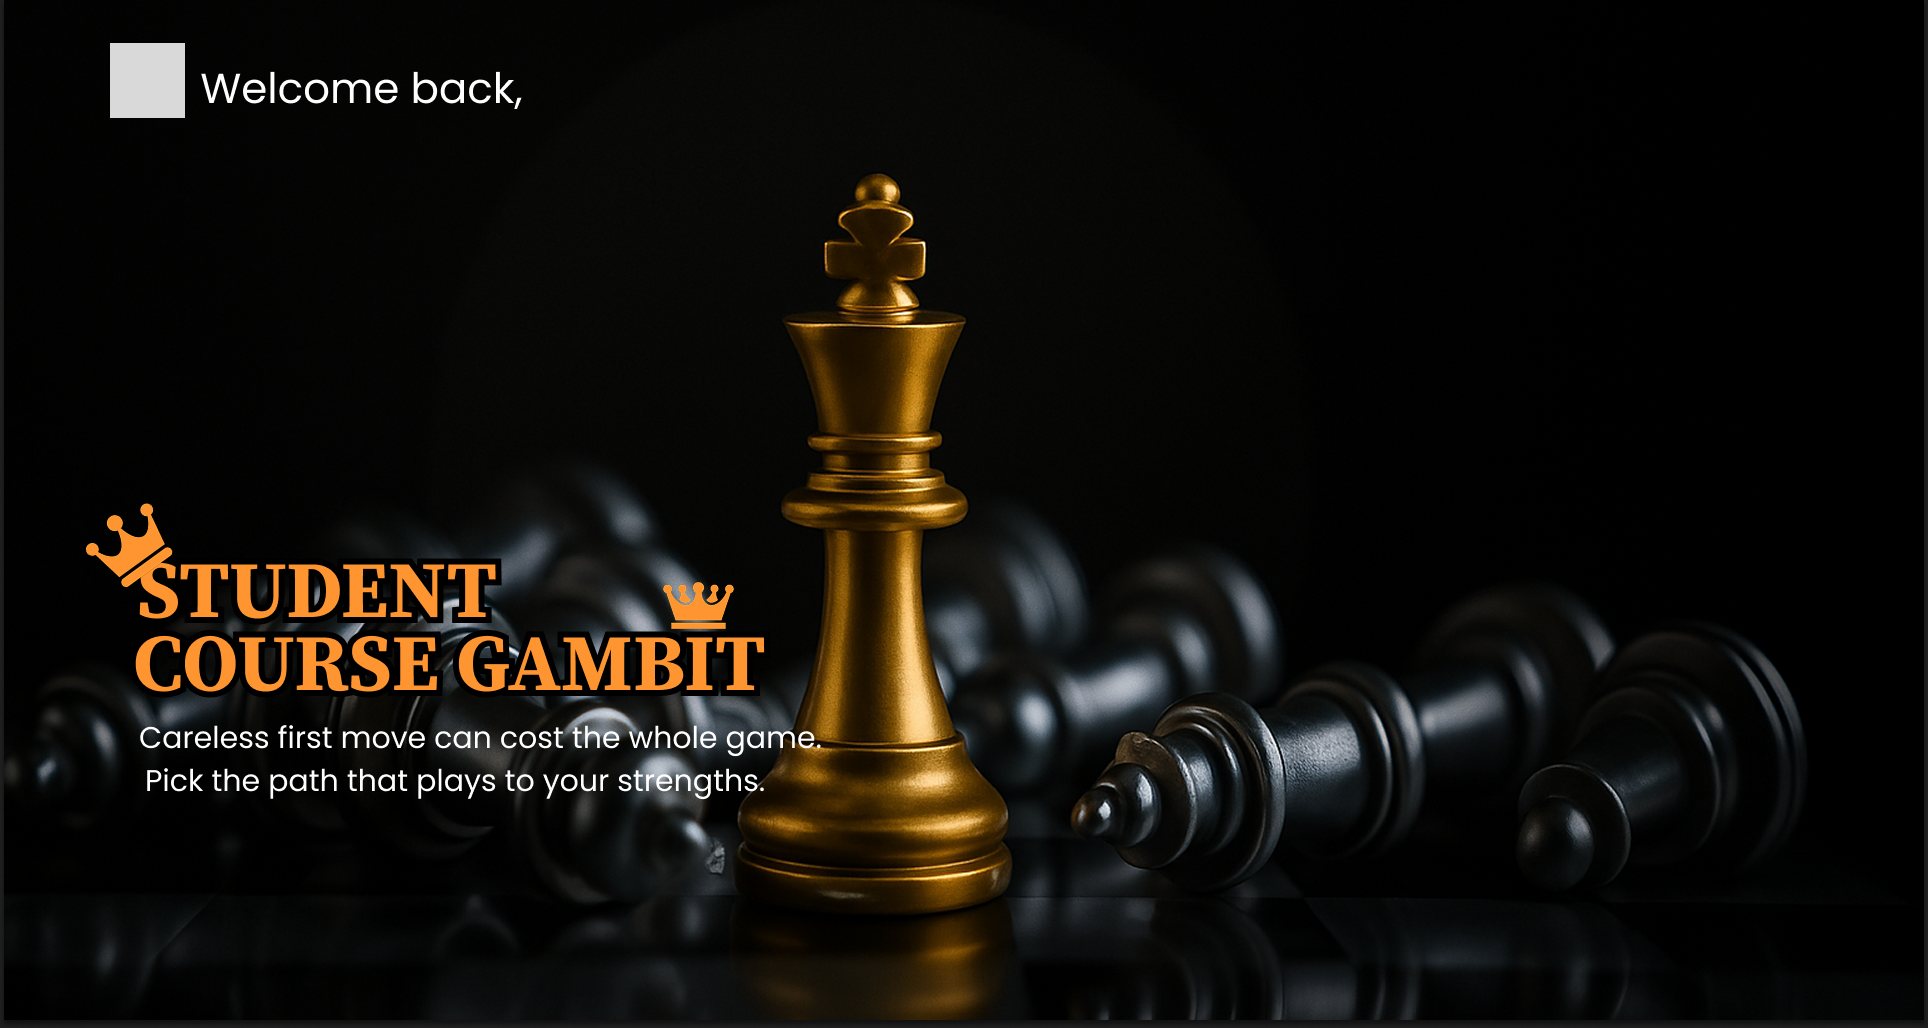
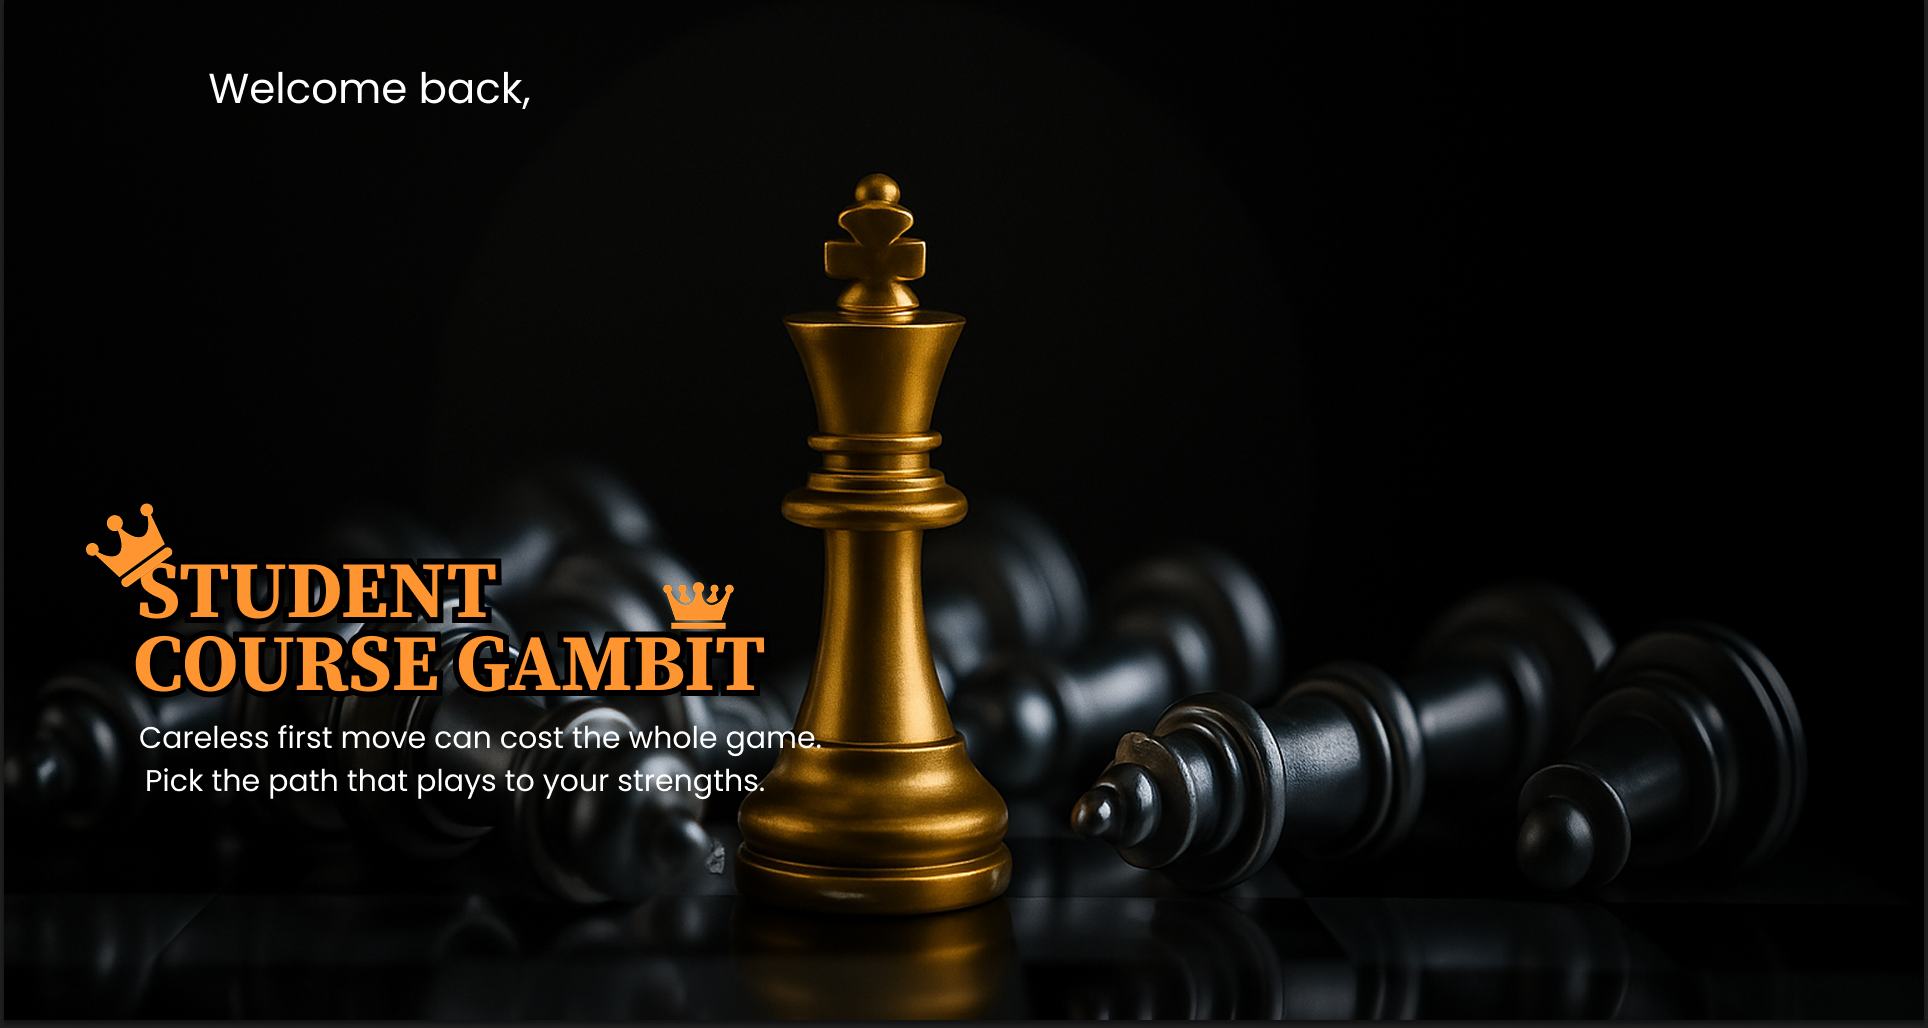
(04/16/2025)

Changed region(s): [[0.0311, 0.0311, 0.2801, 0.1245]]

diff --git a/Student Assistant/frmMain.py b/Student Assistant/frmMain.py
@@ -8,19 +8,26 @@ from PyQt5.QtCore import Qt, QUrl, QSize, pyqtSignal, pyqtSlot
 class frmUpload(QWidget):
     picture_uploaded = pyqtSignal(QPixmap)  # Signal to send image back
 
-    def __init__(self):
+    def __init__(self, existing_pixmap=None):
         super().__init__()
         self.setWindowTitle("Upload Picture")
         self.resize(500, 527)
         self.setWindowFlags(Qt.WindowType.FramelessWindowHint)
-        self.current_pixmap = None
+
+        if existing_pixmap:
+            self.current_pixmap = existing_pixmap
+        else:
+            self.current_pixmap = QPixmap("user.png")  # ← Default image
 
         # Picture display label
         self.picLabel = QLabel(self)
         self.picLabel.setFixedSize(200, 200)
         self.picLabel.move(155, 78)
-        self.picLabel.setStyleSheet("background-color: #f0f0f0; border: 2px dashed #aaa;")
+        self.picLabel.setStyleSheet("background-color: transparent; border: 2px dashed #aaa;")
         self.picLabel.setScaledContents(True)
+
+        if self.current_pixmap:
+            self.picLabel.setPixmap(self.current_pixmap)
 
         # Upload button
         self.btnUpload = QPushButton("Upload Picture", self)
@@ -62,16 +69,27 @@ class frmUpload(QWidget):
             self.picLabel.setPixmap(self.current_pixmap)
 
     def remove_picture(self):
-        self.picLabel.clear()
-        self.picLabel.setStyleSheet("background-color: #f0f0f0; border: 2px dashed #aaa;")
-        self.current_pixmap = None
+        self.current_pixmap = QPixmap("user.png")  # Reset to default image
+        self.picLabel.setPixmap(self.current_pixmap)
+        self.picLabel.setStyleSheet("background-color: transparent; border: 2px dashed #aaa;")
 
     def save_picture(self):
         if self.current_pixmap:
-            self.picture_uploaded.emit(self.current_pixmap)  # Emit signal with the image
-            self.close()
+            reply = QMessageBox.question(
+            self,
+            "Confirm Save",
+            "Do you want to save this picture?",
+            QMessageBox.Yes | QMessageBox.No,
+            QMessageBox.No
+        )
+            if reply == QMessageBox.Yes:
+                self.picture_uploaded.emit(self.current_pixmap)
+                QMessageBox.information(self, "Success", "Picture uploaded successfully.")
+                self.close()
+            else:
+                QMessageBox.information(self, "Picture was not saved.")
         else:
-            print("No picture to save.")
+            QMessageBox.warning(self, "No Picture", "No picture to save.")
 
     def paintEvent(self, event):
         painter = QPainter(self)
@@ -90,11 +108,13 @@ class frmUpload(QWidget):
 
 # Original frmMain
 class frmMain(QWidget):
-    def __init__(self): # , username
+    def __init__(self, username): # 
         super().__init__()
         self.setWindowTitle("Main Dashboard")
         self.resize(1920, 1020)
         self.setWindowFlags(Qt.FramelessWindowHint)
+
+        self.last_uploaded_pixmap = None
 
         # Video Widget
         self.videoWidget = QVideoWidget(self)
@@ -111,10 +131,10 @@ class frmMain(QWidget):
         self.player.mediaStatusChanged.connect(self.handle_media_status)
 
         # Label to display username
-        #self.lblUsername = QLabel(f"{username}", self)
-        #self.lblUsername.setFixedSize(400, 80)
-        #self.lblUsername.move(538, 43)
-        #self.lblUsername.setObjectName("lblUsername")
+        self.lblUsername = QLabel(f"{username}", self)
+        self.lblUsername.setFixedSize(400, 80)
+        self.lblUsername.move(544, 43)
+        self.lblUsername.setObjectName("lblUsername")
 
         self.lblSAS = QLabel("Student Assistant System", self)
         self.lblSAS.setFixedSize(800, 80)
@@ -124,9 +144,19 @@ class frmMain(QWidget):
         # Button to open upload form
         self.btnOpenUpload = QPushButton("", self)
         self.btnOpenUpload.setFixedSize(65, 65)
-        self.btnOpenUpload.move(115, 45)
+        self.btnOpenUpload.move(120, 48)
         self.btnOpenUpload.clicked.connect(self.open_upload_form)
         self.btnOpenUpload.setObjectName("btnUpload")
+
+        # Set default user icon before any upload
+        default_pixmap = QPixmap("user.png")
+        if not default_pixmap.isNull():
+            icon_size = QSize(55, 55)  # Set icon size here
+            scaled = default_pixmap.scaled(icon_size, Qt.KeepAspectRatio, Qt.SmoothTransformation)
+            self.btnOpenUpload.setIcon(QIcon(scaled))
+            self.btnOpenUpload.setIconSize(icon_size)
+            self.last_uploaded_pixmap = default_pixmap
+
 
         self.btn1 = QPushButton("", self)
         self.btn1.setFixedSize(150, 150)
@@ -236,7 +266,7 @@ class frmMain(QWidget):
             self.close()  
 
     def open_upload_form(self):
-        self.upload_window = frmUpload()
+        self.upload_window = frmUpload(existing_pixmap=self.last_uploaded_pixmap)
         self.upload_window.picture_uploaded.connect(self.set_upload_button_image)
         self.upload_window.show()
 
@@ -250,7 +280,8 @@ class frmMain(QWidget):
 
     @pyqtSlot(QPixmap)
     def set_upload_button_image(self, pixmap):
-    # Scale the image to fit the button size exactly
+        self.last_uploaded_pixmap = pixmap  # store pixmap for future use
+
         scaled_pixmap = pixmap.scaled(
         self.btnOpenUpload.size(), Qt.KeepAspectRatioByExpanding, Qt.SmoothTransformation
     )
